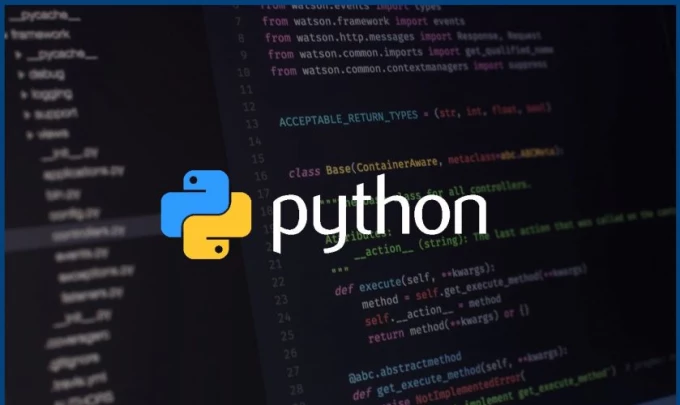
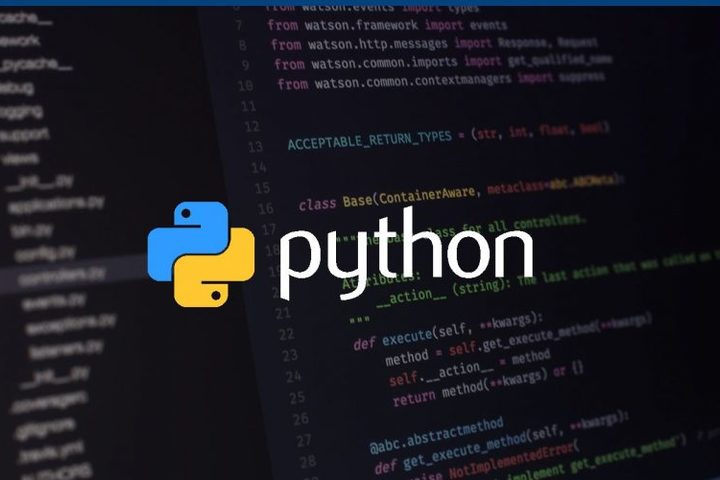
finalChanges

diff --git a/css/main.css b/css/main.css
@@ -96,15 +96,6 @@ footer a:hover {
   cursor: auto;
 }
 
-#lastUpdate:hover {
-  color: #444;
-  font-size: .7em;
-  position: fixed;
-  right: .2vw;
-  cursor: auto;
-}
-
-
 .itemTitle {
   font-size: 1.1em;
   font-weight: bold;
@@ -152,7 +143,7 @@ tr > td > a {
 
 tr > td > a:hover {
   font-weight: bold;
-  font-size: 2.2em;
+  font-size: 2.2vw;
 }
 
 
@@ -364,7 +355,6 @@ Interests Page CSS
 
 .intGrid-container {
   display: grid;
-  margin-left: 3.5vw;
   margin-right: 3.5vw;
   grid-template-columns: repeat(2, minmax(100px, 50%));
   grid-template-rows: repeat(2, minmax(100px, 50%));
@@ -377,10 +367,16 @@ Interests Page CSS
 
 .intItem1 {
   grid-area: 1/1/1/2;
+  display: block;
+  margin-left: auto;
+  margin-right: auto;
 }
 
 .intItem2 {
   grid-area: 1/2/2/2;
+  display: block;
+  margin-left: auto;
+  margin-right: auto;
 }
 
 .intItem3 {
@@ -389,9 +385,12 @@ Interests Page CSS
 
 .intItem3 > img {
   object-fit: cover;
-  width: 100%;
-  height: 80%;
+  width: 80%;
+  height: 60%;
   margin-bottom: 10vh;
+  display: block;
+  margin-left: auto;
+  margin-right: auto;
 }
 
 .intItem4 {
@@ -400,9 +399,12 @@ Interests Page CSS
 
 .intItem4 > img {
   object-fit: cover;
-  width: 100%;
-  height: 100%;
+  width: 80%;
+  height: 60%;
   margin-bottom: 10vh;
+  display: block;
+  margin-left: auto;
+  margin-right: auto;
 }
 
 /**

diff --git a/interests.html b/interests.html
@@ -60,11 +60,11 @@
               </div>
 
               <div class="intItem3">
-                <img src="images/htmlCssImg.jpg" alt="Picture of python code that says python overlayed on top">
+                <img src="images/html5css3.png" alt="Image of html5 and css3">
               </div>
 
               <div class="intItem4">
-                <img src="images/pythonIMG.webp" alt="Picture of html that says html5 and css3 overlayed on top">
+                <img src="images/pythonIMG.webp" alt="Picture of python code that says python overlayed on top">
               </div>
 
             </div>
@@ -75,7 +75,7 @@
         <a href="https://github.com/ETRulz">Ethan Hancock</a>
         <a href="+tel:+1563.340.8773">Phone</a>
         <a href="mailto:eh155782@students.davenport.k12.ia.us" id="emailTag">Email</a>
-        <a href="interests.html" id="lastUpdate">Last Updated 10/18/2018</a>
+        <a href="interests.html" id="lastUpdate">Last Updated 10/23/2018</a>
       </address>
     </footer>
 

diff --git a/index.html b/index.html
@@ -3,6 +3,7 @@
   <head>
     <meta charset="utf-8">
     <title>Home</title>
+    <link rel="icon" href="images/testLogo.jpg">
     <link rel="stylesheet" href="css/main.css">
   </head>
   <body id="homeBody">
@@ -33,7 +34,7 @@
               </tr>
             </table>
 
-          <p id="homeUpdate">Last Updated 10/18/2018</p>
+          <p id="homeUpdate">Last Updated 10/23/2018</p>
       </div>
   </body>
 </html>

diff --git a/about.html b/about.html
@@ -60,7 +60,7 @@
         <a href="https://github.com/ETRulz">Ethan Hancock</a>
         <a href="+tel:+1563.340.8773">Phone</a>
         <a href="mailto:eh155782@students.davenport.k12.ia.us" id="emailTag">Email</a>
-        <a href="interests.html" id="lastUpdate">Last Updated 10/18/2018</a>
+        <a href="interests.html" id="lastUpdate">Last Updated 10/23/2018</a>
       </address>
     </footer>
 

diff --git a/myStory.html b/myStory.html
@@ -59,7 +59,7 @@
         <a href="https://github.com/ETRulz">Ethan Hancock</a>
         <a href="+tel:+1563.340.8773">Phone</a>
         <a href="mailto:eh155782@students.davenport.k12.ia.us" id="emailTag">Email</a>
-        <a href="interests.html" id="lastUpdate">Last Updated 10/18/2018</a>
+        <a href="interests.html" id="lastUpdate">Last Updated 10/23/2018</a>
       </address>
     </footer>
 

diff --git a/works.html b/works.html
@@ -54,7 +54,7 @@
         <a href="https://github.com/ETRulz">Ethan Hancock</a>
         <a href="+tel:+1563.340.8773">Phone</a>
         <a href="mailto:eh155782@students.davenport.k12.ia.us" id="emailTag">Email</a>
-        <a href="interests.html" id="lastUpdate">Last Updated 10/18/2018</a>
+        <a href="interests.html" id="lastUpdate">Last Updated 10/23/2018</a>
       </address>
     </footer>
 
